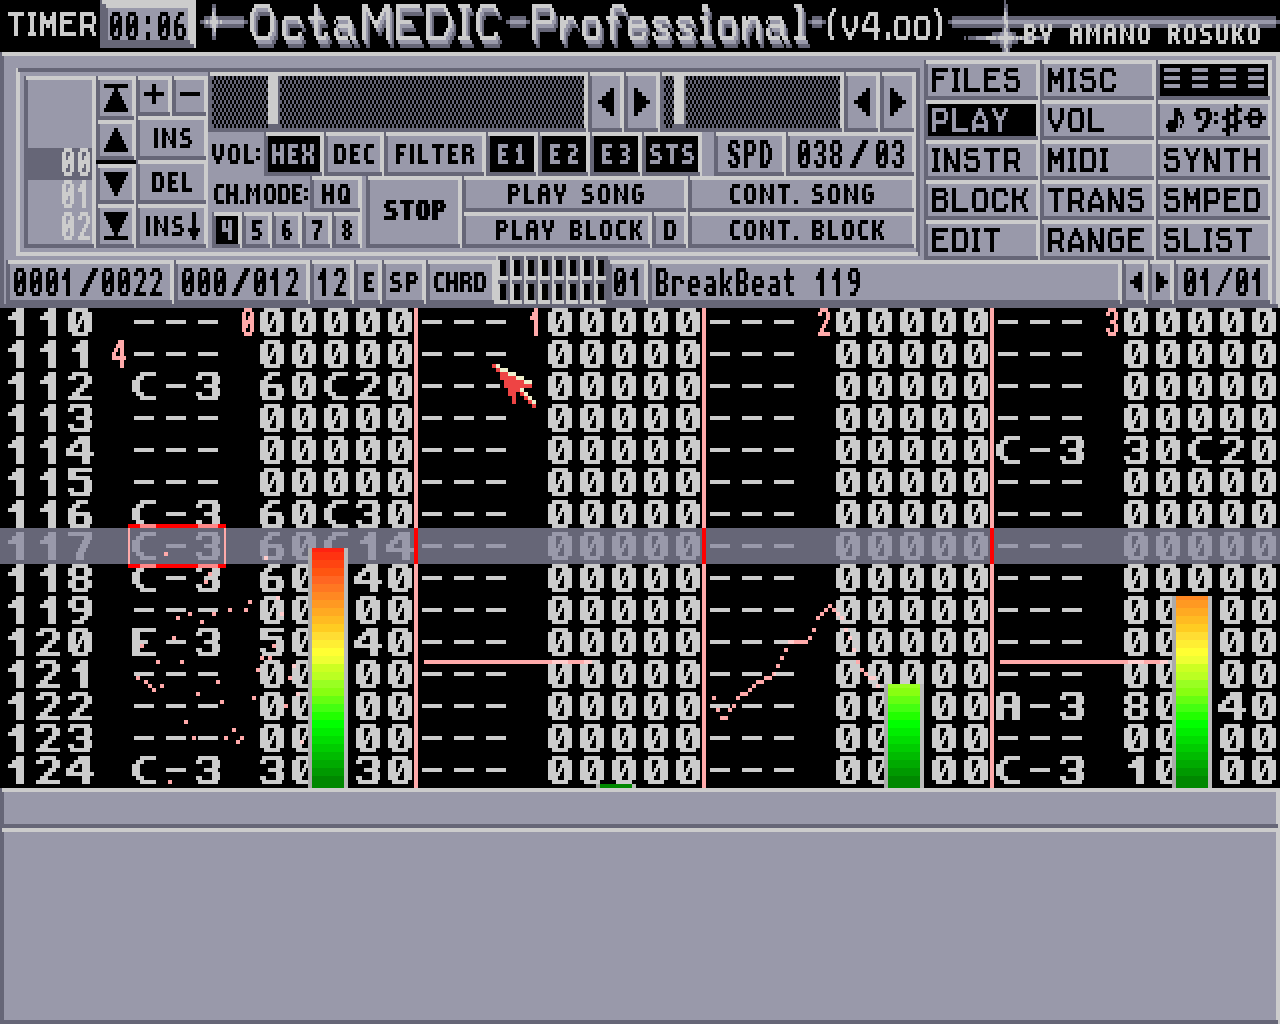
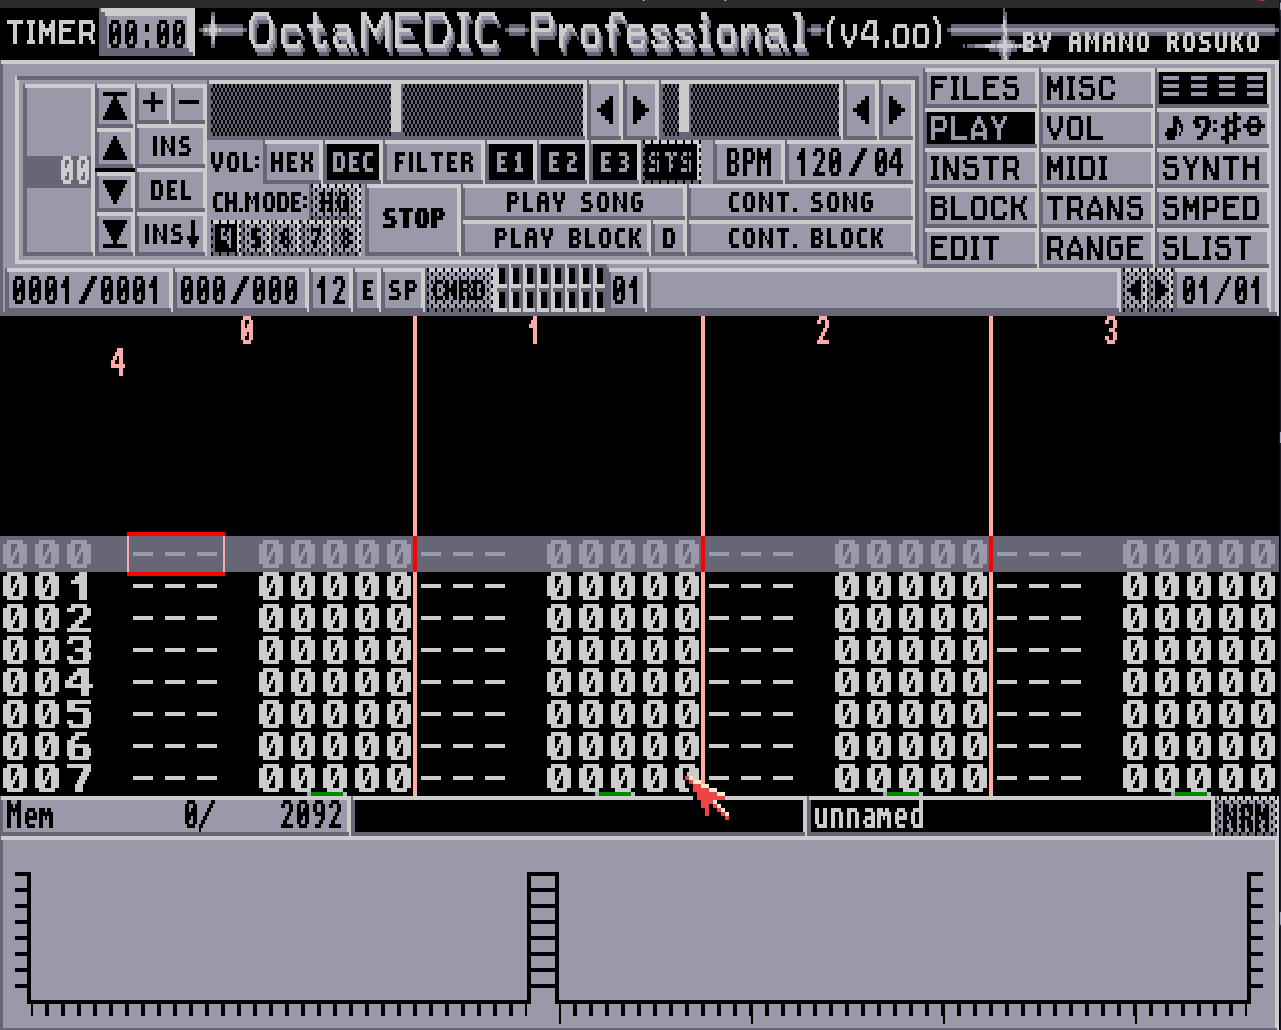
readmepng

diff --git a/V0.01TARGETS.md b/V0.01TARGETS.md
@@ -1,0 +1,56 @@
+# V0.01 targets
+
+The first demo. The goal is that someone who knows OctaMED Pro V4 can sit down, make a short song
+from samples start to finish, save it, and open it again later, here or in the real OctaMED.
+
+Anything not listed stays ghosted in the GUI for now.
+
+## Must have
+
+### Songs
+- [x] Load MMD0 and MMD1 modules, notes, instruments and metadata
+- [ ] Save songs as MMD1 with instruments (SAVE SONG), loadable by the real OctaMED
+- [ ] Clear song / clear all, quit with a check for unsaved changes
+
+### Playback
+- [x] Play song and block, continue song and block, with the tempo and the 4 channels
+- [ ] The common sample commands: arpeggio, slides, portamento, vibrato, volume, tempo, jumps and
+      pattern breaks
+- [ ] Filter on/off
+
+### Editing
+- [ ] Block editor: notes, instruments, commands, holds, ranges, cut/copy/paste
+- [ ] Sequence editing: add, remove and reorder blocks in the play sequence
+- [ ] Undo for the block editor
+
+### Instruments
+- [x] Load WAV, MP3, FLAC, IFF and raw samples
+- [ ] Sample editor: ranges, zoom, cut/copy/paste, clear, reverse, mix, freehand, play range and
+      display, BUFFSIZE
+- [ ] Save instruments as raw, IFF or WAV
+- [ ] Instrument volume, transpose, finetune, hold and decay
+
+### Release
+- [ ] Builds for Windows, Linux and Mac on the releases page
+- [ ] A short addendum listing what's different from the original
+
+## Nice to have
+
+- [ ] Render the song to WAV
+- [ ] PAL/NTSC and memory as settings
+- [ ] A play position line in the sample editor
+
+## Not in the demo
+
+- Synth and hybrid sounds
+- MIDI in and out, audio interface routing
+- Keybind remapping, configuration overrides
+- Loading ProTracker and SoundTracker modules
+- MMD0 and MMD1 without instruments as save formats
+
+## Known issues
+
+- [ ] Sample editor: REV over a range that crosses from one octave copy of a multi-octave sample
+      into another moves data between the copies and scrambles them, even though the length stays
+      the same. Edits that change a multi-octave sample's length are already turned down (see the
+      TODO on `edit_sample` in `octamedic_gui/src/app/main/sample_editor.rs`).

diff --git a/README.md b/README.md
@@ -68,6 +68,9 @@ It is also possible to build from source using the rust cargo toolchain. This wa
 - rustuition
     - custom made UI toolkit to recreate the AmigaOS look from intution
 ## Roadmap
+
+What's needed for the first release is tracked in [V0.01TARGETS.md](V0.01TARGETS.md).
+
 - [X] Loading real mmd file's metadata, note and instrument data
 - [ ] Loading protracker/soundtracker supported modules
 - [X] Loading extra metadata from mmd files
